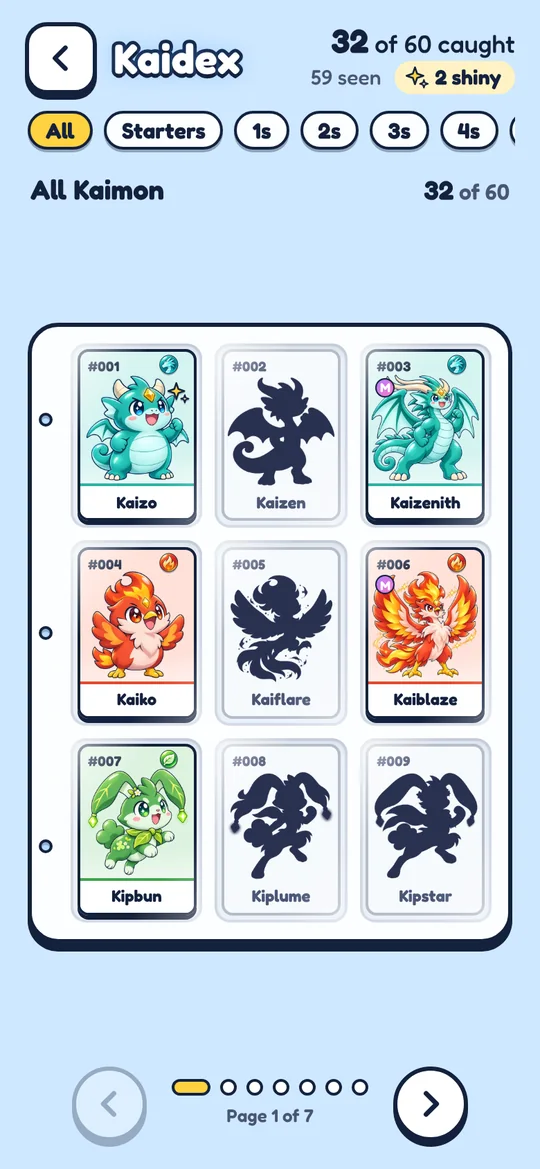
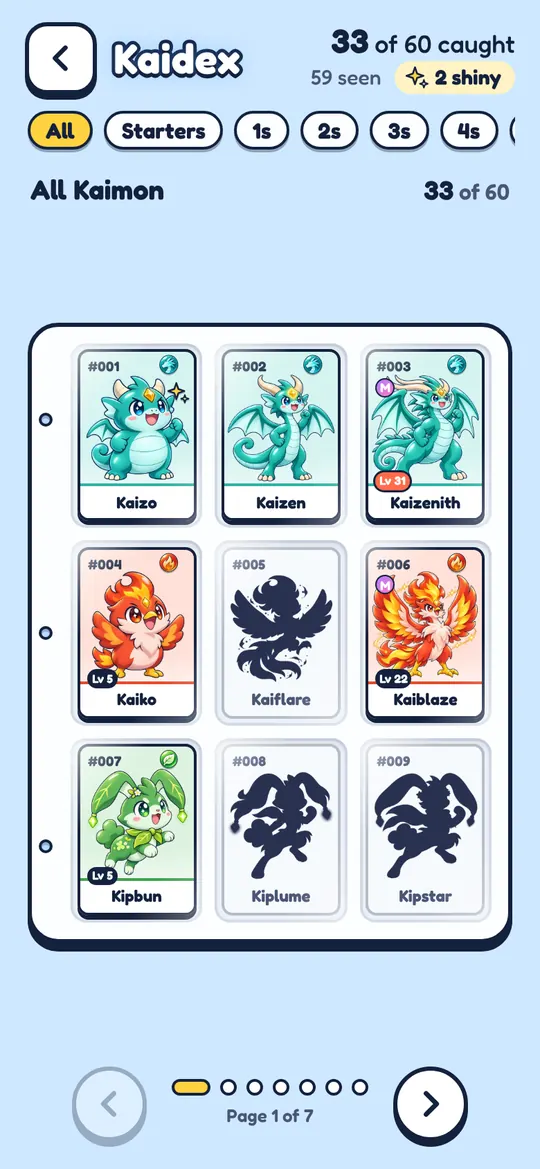
README: v1.0 launch refresh with new screenshots
Updates what the game is, the features now shipped (guided first game,
Kaimon levels and Buddy, Lightning Round, items and quests, gyms and
Boss Papa, the Hundred Tower and Megas, Wardrobe, offline play, family
sync, Grown-ups insights and weekly email, Share with a class, Play on
another device), a privacy summary that follows privacy.html, install
and play links, how it was built, and a short For developers section.

Screenshots in docs/readme are retaken from v0.6.13 with a seeded save
(540x1169 WebP, 42 to 70 KB each), plus a new Wardrobe shot.

Claude-Session: https://claude.ai/code/session_01XXEqGR4NTtAAc6vCv1kfjh

diff --git a/README.md b/README.md
@@ -16,46 +16,61 @@
 </p>
 
 <p align="center">
-  <img src="docs/readme/home.webp" alt="Home screen: a Gym Leader is ready to battle, with Quick practice, the Kaidex, Pop Quiz and your buddy Kaimon below" width="18%">
-  <img src="docs/readme/practice-card.webp" alt="A practice card: 6 × 7 = 42 typed in, with a wild Gemmo waiting to be caught" width="18%">
-  <img src="docs/readme/battle.webp" alt="A Gym battle: Kaizen against Coalbit, with 3 × 3 on the card and the number pad below" width="18%">
-  <img src="docs/readme/kaidex.webp" alt="The Kaidex binder: caught Kaimon in card sleeves, uncaught ones as dark silhouettes" width="18%">
-  <img src="docs/readme/grown-ups.webp" alt="Grown-ups: a 10 by 10 grid showing every fact by medal, with answers, accuracy and minutes played" width="18%">
+  <img src="docs/readme/home.webp" alt="Home screen: Battle Blaze, the 3s Gym Leader, is ready, with Quick practice, the Kaidex, Pop Quiz and your Buddy Kaimon below" width="30%">
+  <img src="docs/readme/practice-card.webp" alt="A practice card: 7 × 3 = 21 typed in, with a wild Flurrypup in a snowy field waiting to be caught" width="30%">
+  <img src="docs/readme/battle.webp" alt="A Gym battle: Kaizenith against Coalbit, with 3 × 5 = 15 on the card and the number pad below" width="30%">
 </p>
-<p align="center"><sub><b>Home</b> &nbsp;·&nbsp; <b>Practice card</b> &nbsp;·&nbsp; <b>Gym battle</b> &nbsp;·&nbsp; <b>Kaidex</b> &nbsp;·&nbsp; <b>Grown-ups</b></sub></p>
+<p align="center"><sub><b>Home</b> &nbsp;·&nbsp; <b>Practice card</b> &nbsp;·&nbsp; <b>Gym battle</b></sub></p>
+<p align="center">
+  <img src="docs/readme/kaidex.webp" alt="The Kaidex binder: caught Kaimon in card sleeves with their levels, uncaught ones as dark silhouettes" width="30%">
+  <img src="docs/readme/wardrobe.webp" alt="The Wardrobe: a trainer in a teal jacket above nine jacket colors earned by answering" width="30%">
+  <img src="docs/readme/grown-ups.webp" alt="Grown-ups: last 7 days at a glance, one thing to practice, one piece of good news and the times table grid" width="30%">
+</p>
+<p align="center"><sub><b>Kaidex</b> &nbsp;·&nbsp; <b>Wardrobe</b> &nbsp;·&nbsp; <b>Grown-ups</b></sub></p>
 
 ## What it is
 
-A flashcard shows up with a wild Kaimon on it. Type the answer, or say it out loud. Get it right and your trainer throws a ball to catch it. Get it wrong and the card flips to show the answer and a quick trick from Teacher K.
+Kaimon Multiply is a times tables game. A flashcard shows up with a wild Kaimon on it. Type the answer, or say it out loud. Get it right and your trainer throws a ball to catch it. Get it wrong and the card shows the answer and a quick trick from Teacher K.
 
-- **60 original Kaimon** to catch, across 10 regions, one for each times table from 1s to 10s.
-- **Gym Leaders and badges.** Battles are flashcard battles: every move is an answer, and faster answers hit harder. Beat them all to face Boss Papa.
-- **Your own trainer.** Play as Kai or build your own look.
+It was made for Kai, an 8 year old learning his times tables, and shared with his friends. The rule behind every choice: **most of the time is spent answering cards, and every reward comes from answering.** Battles are flashcard battles where every move is an answer. No trading, no maps to wander, no leaderboards.
 
-It was made for Kai, an 8 year old learning his times tables, and shared with his friends. The rule behind every choice: **most of the time is spent answering cards, and every reward comes from answering.** No trading, no maps to wander, no leaderboards.
+## What's in the game
+
+- **A guided first game.** Teacher K walks new trainers through four easy cards, a first catch and a quick look around Home.
+- **60 original Kaimon** across 10 regions, one region for each times table. Every Kaimon you own has its own level. Pick one as your **Buddy**, and watch it grow and evolve.
+- **Gyms and Boss Papa.** Each table has a Gym Leader with a badge to win. Faster answers hit harder. Beat them all to face Boss Papa and his dad jokes at Papa's Gym.
+- **The Hundred Tower and Megas.** Climb floors of legendary Kaimon. Each new floor gives a Mega Crystal for a stronger Mega form.
+- **Lightning Round.** 60 seconds with facts you already know. Beat your own best. Always optional, and Calm mode in Grown-ups hides it.
+- **Items and daily quests.** Three small quests a day, all done by answering. Earn Hint Scrolls, Power Snacks, Evolve Crystals and more.
+- **Your own trainer and Wardrobe.** Play as Kai or build your own look, then earn new jacket colors with right answers.
+- **Works offline.** Once every picture is saved, the whole game plays with no internet. The Menu shows a Works offline badge.
 
 ## How it helps kids learn
 
 - **Spaced practice.** Medals count right answers on separate days (Bronze 2, Silver 5, Gold 10, Star 20), so facts are learned over weeks instead of crammed. A missed fact comes back a little later, then again a bit later.
 - **Foundations first.** New facts come in a proven order: the 1s, 2s, 5s and 10s, then squares like 6 × 6, then the rest. Each round mixes a few new or tricky facts in with ones a child already knows.
 - **Turnaround facts.** Know 7 × 3? The game points out that 3 × 7 is the same answer, so 100 facts feel more like 55.
-- **Accuracy before speed.** Bronze only needs right answers. Higher medals need quick ones too, which builds real recall instead of counting on fingers. No timer ever runs out on a card.
+- **Accuracy before speed.** Bronze only needs right answers. Higher medals need quick ones too, which builds real recall instead of counting on fingers. No timer ever runs out on a practice card.
 - **Kind on misses.** A wrong answer shows the right one with one short trick, and the child types it in before moving on.
 
 ## For grown-ups
 
-- **Parent PIN area.** Open Grown-ups from the Menu and enter the PIN. See all 100 facts by medal, pick which tables are in play, set a daily time limit and give a **Good Work Stamp** for great math done off screen.
-- **Weekly reports.** Turn them on to email a short summary each Sunday morning to up to 5 grown-ups. Each person taps Yes in a first email before any report comes.
-- **Family sync.** Optional. Sign in with a grown-up's email and a code, and the same trainers stay in step on every family phone, tablet and Chromebook.
+- **Grown-ups area** behind a parent PIN. See the last 7 days at a glance, one thing to practice next, one piece of good news, all 100 facts by medal and a "Talk about it" question to try with your child. Pick which tables are in play, set a daily time limit and give a **Good Work Stamp** for great math done off screen.
+- **Weekly email.** Optional. A short summary each Sunday morning for up to 5 grown-ups. Each person taps Yes in a first email before any report comes.
+- **Family sync.** Optional. Start a family from Grown-ups with a grown-up's email and a one-time code, and the same trainers stay in step on every family phone, tablet and Chromebook.
+- **Play on another device.** A QR code and link to open the game on another phone, tablet or Chromebook.
+- **Share with a class.** A page for teachers and families with a QR code, privacy in plain words and a one-page letter to print. Find it in Grown-ups, on the Help tab.
 - **No ads, no purchases, no cost.** The game is free and runs for $0.
 
-**Privacy, in plain words**
+## Privacy, in plain words
 
-- **No account needed.** Kids pick a trainer name and play. Without family sync or weekly reports, progress stays on the device. Friends can play as guests, and guest progress never leaves the device.
-- **Family sync** keeps the grown-up's email (only used to sign in) and the synced trainers' names and progress. Each family can only reach its own data.
-- **Weekly reports** keep only the email addresses, so we know who said yes. The summary itself is not kept on a server. Turn reports off any time in Grown-ups.
-- **News emails are easy to stop.** When a grown-up turns on family sync, a checked box adds their email to occasional news (they can uncheck it). There is an off switch in Grown-ups, and every news email has an unsubscribe button that deletes the address. Emails added for weekly reports are never put on the news list.
-- **The mic never records.** Mic mode only listens while a card is waiting for an answer, and turns itself off after 2 minutes of quiet. Speech goes to the device's own speech service to become a number. Audio is never recorded or saved.
+The short version, from the [Privacy page](https://brwilliams88.github.io/kaimon-multiply/privacy.html):
+
+- **No ads.** We never sell or share your data. No tracking cookies and no third-party trackers.
+- **No account needed.** Progress stays on your device. Friends can play as guests, and guest progress never leaves the device.
+- **Emails only go to grown-ups who sign up**, and every email has a way to stop. Emails typed in for weekly reports are never added to the news list.
+- **Usage counts, with an off switch.** To see if the game is fun and working, it sends simple counts to a private dashboard, like a random number made for the device (not linked to any email), trainer names, the kind of device, a rough city and play totals. Never emails, names of real people, photos or exact locations. A grown-up can turn this off in Grown-ups, on the Help tab.
+- **Family sync** stores the family's trainers and progress so every family device stays in step. Each family can only see its own trainers.
 
 ## Install on a phone, tablet or Chromebook
 
@@ -65,21 +80,27 @@ Open [the game](https://brwilliams88.github.io/kaimon-multiply/), then:
 - **Android:** tap the menu, then **Install app**.
 - **Chromebook or computer:** click the install icon at the right end of the address bar in Chrome or Edge.
 
-Once installed it works offline. The game also shows the steps for your exact device in **Grown-ups > Install on this device**.
+The [Install page](https://brwilliams88.github.io/kaimon-multiply/install.html) has steps for every device. Once installed it opens full screen and works offline.
 
-## Built with
+## How it was built
 
-- **An installable web app** in plain HTML, CSS and JavaScript, with no build step. Hosted free on **GitHub Pages**. A service worker caches everything for offline play.
-- **Supabase** for optional family sync, with row-level security. Progress is an append-only log of events, so devices merge cleanly.
-- **Google Apps Script** to send the weekly report emails.
-- **Art made offline with image generation**, once, at build time, in one friendly anime style. Nothing is generated while you play.
-- **Sound and music synthesized in code** with the Web Audio API. There are no audio files.
+- **Run like a real product.** A short brief with firm product rules (mostly answering, every reward from answering, original creatures only), a roadmap in phases, playtests with Kai, and every change a player could notice shipped as its own version.
+- **Claude as the team.** The game was written with Claude Code. Parallel agents each built one feature in their own git worktree, checked their work with automated screenshots at phone and iPad sizes, and handed back to a coordinator that merged and shipped.
+- **Art made offline** with OpenAI's image model, once, at build time, in one friendly anime style. Nothing is generated while you play. Sound and music are made in code with the Web Audio API.
+- **$0 to run.** Hosted free on **GitHub Pages**. Family sync and usage counts use **Supabase** on its free plan, and weekly emails go out through **Google Apps Script**.
 
-To run it locally, serve the folder with any static server (for example `python3 -m http.server 8000`) and open <http://localhost:8000>. Run `node tools/gen-sw.mjs` before committing so offline caching picks up changes.
+## For developers
+
+Kaimon Multiply is a static, installable web app in plain HTML, CSS and JavaScript modules. There is no build step.
+
+- **Run it:** serve the folder with any static server, for example `python3 -m http.server 8000`, then open <http://localhost:8000>.
+- **Before committing:** run `node tools/gen-sw.mjs` so the service worker caches the latest files for offline play.
+- **Tests:** `node --test tests/*.test.mjs` (items, quests, Lightning Round, tower), plus `node tools/test-learning.mjs` and `node tools/test-levels.mjs`. `tools/` also has pacing simulators and the Apps Script mailer.
+- **Layout:** `js/core` holds the game rules (the reusable Kaimon core, with the math in `js/core/facts.js`), `js/ui` the screens, `js/data` the creatures and text, and `supabase/` the database setup with row-level security. Progress is an append-only log of events, so devices merge cleanly.
 
 ## Versions
 
-Every change a player or parent could notice ships as its own version, tagged `vX.Y.Z`. See the [changelog](CHANGELOG.md) for the full history, or open **Grown-ups > What's new** in the app. Version 1.0.0 will be the public launch.
+Every change a player or parent could notice ships as its own version, tagged `vX.Y.Z`. Version 1.0.0 is the public launch. See the [changelog](CHANGELOG.md) for the full history, or open **Grown-ups > What's new** in the app.
 
 ---
 
